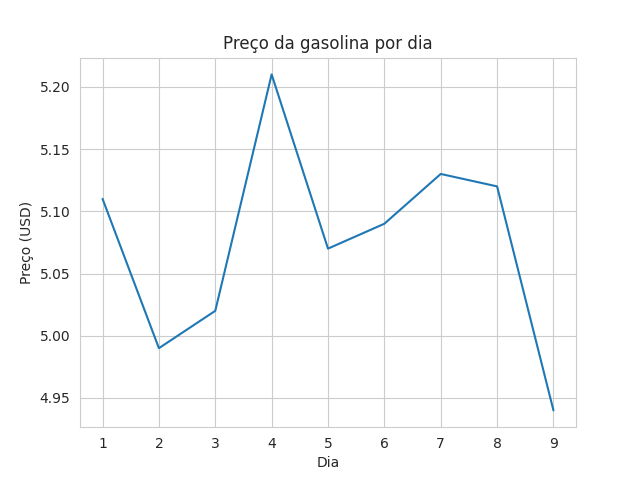
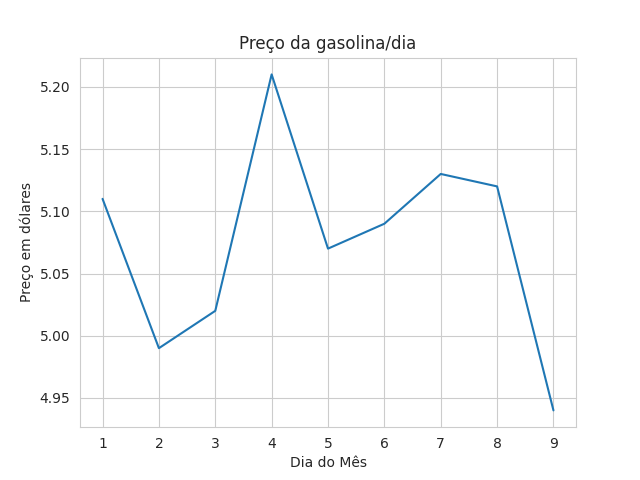
arquivos atualizados em develop

Changed region(s): [[0.3438, 0.0625, 0.6875, 0.125], [0.0312, 0.375, 0.0625, 0.625], [0.4375, 0.9375, 0.5625, 0.9688]]

diff --git a/gasolina.py b/gasolina.py
@@ -4,8 +4,7 @@ import seaborn as sns
 data = pd.read_csv("gasolina.csv")
 with sns.axes_style('whitegrid'):
  grafico = sns.lineplot(data=data, x="dia", y="venda", palette="pastel")
- grafico.set(title='Preço da gasolina por dia', xlabel='Dia', ylabel='Preço (USD)')
+ grafico.set(title='Preço da gasolina/dia', xlabel='Dia do Mês', ylabel='Preço em dólares')
 
 fig = grafico.get_figure()
 fig.savefig('gasolina.png')
-
